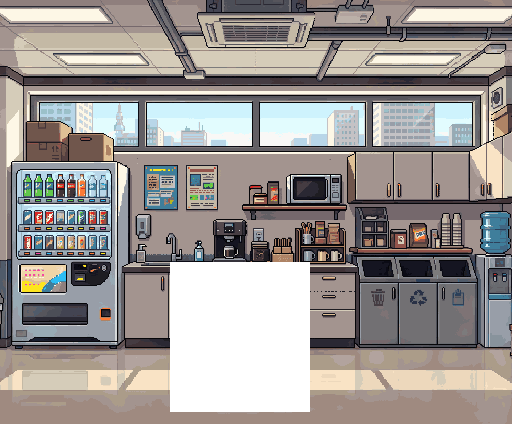
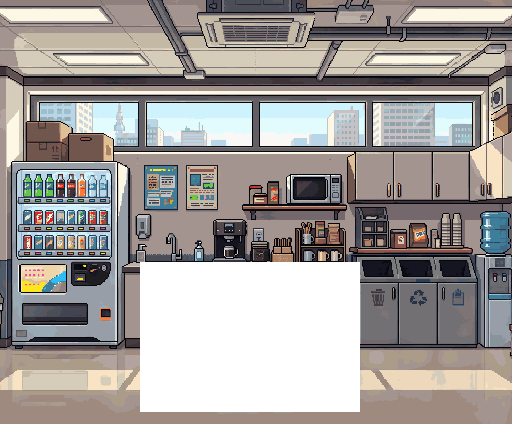
테이블 inpaint 2차 자리: 폭 220(x200~420), 1차는 상판이 마스크 끝에 잘림
Claude-Session: https://claude.ai/code/session_01MHVZo5xzmG7tpZt8vuhRLM

Changed region(s): [[0.5938, 0.6132, 0.7188, 0.9811], [0.25, 0.6132, 0.3438, 0.9811]]

diff --git a/tools/objects/lounge_table_inpaint_prep.py b/tools/objects/lounge_table_inpaint_prep.py
@@ -7,7 +7,7 @@ sys.path.insert(0,str(ROOT/'game-src/action/testroom3')); sys.path.insert(0,str(
 os.environ['CHAIR_DIR']=str(ROOT/'game-src/art/objects/chairs_shell/fit')
 import fit_chair as fc
 from PIL import Image, ImageDraw
-WX0=60; W=512; MX0,MY0,MX1,MY1=230,262,370,412; FOOT=400   # 자리: 폭 140, 높이 150, 발선 400
+WX0=60; W=512; MX0,MY0,MX1,MY1=200,262,420,412; FOOT=400   # 2차: 폭 220(1차 140은 상판이 잘림), 높이 150, 발선 400
 bg=Image.open(ROOT/'game-src/art/pixellab-hq-20261031/hq_lounge_p8s.png').convert('RGBA')
 win=bg.crop((WX0,0,WX0+W,bg.height)); mask=Image.new('RGB',win.size,(0,0,0)); ImageDraw.Draw(mask).rectangle([MX0-WX0,MY0,MX1-WX0-1,MY1-1],fill=(255,255,255))
 # 마스크 칸 안의 옛 그림은 지움(흰색)
@@ -23,5 +23,5 @@ pv.alpha_composite(c,(round(cx+fit['side']['dx']-100),round(foot+fit['side']['dy
 pv.alpha_composite(im,(round(cx-im.width/2),round(foot-(im.height-4))))
 g=ImageDraw.Draw(pv); g.rectangle([MX0,MY0,MX1-1,MY1-1],outline=(255,0,255,255),width=2); g.rectangle([WX0,0,WX0+W-1,bg.height-1],outline=(0,255,255,255),width=1)
 g.line([(MX0-40,FOOT),(MX1+40,FOOT)],fill=(255,80,80,255),width=1); g.line([(MX0-40,FOOT-120),(MX1+40,FOOT-120)],fill=(80,255,80,255),width=1)
-pv.convert('RGB').resize((bg.width*2,bg.height*2),Image.NEAREST).save('/mnt/project-files/hq-f3/now/lounge_table_inpaint_spot_x2.png')
+pv.convert('RGB').resize((bg.width*2,bg.height*2),Image.NEAREST).save('/mnt/project-files/hq-f3/now/lounge_table_inpaint_spot2_x2.png')
 print('ok')
